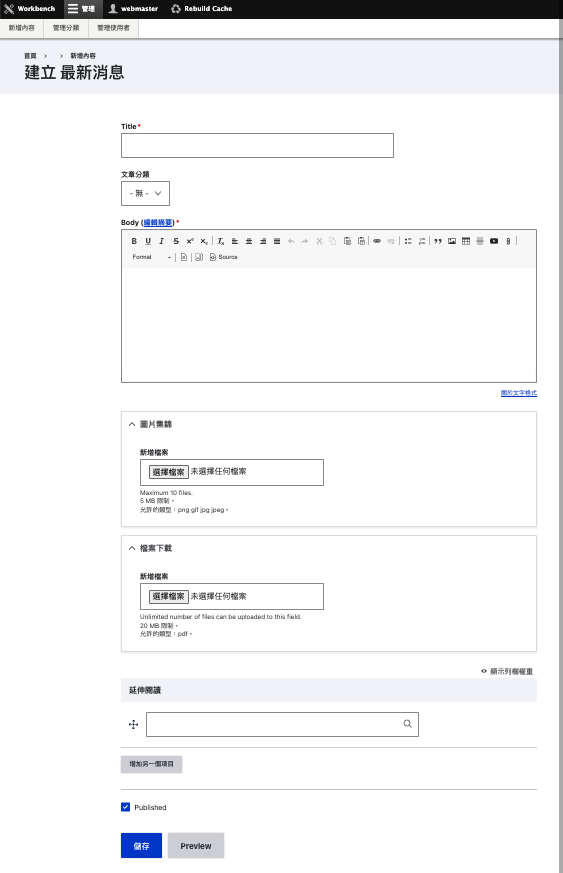
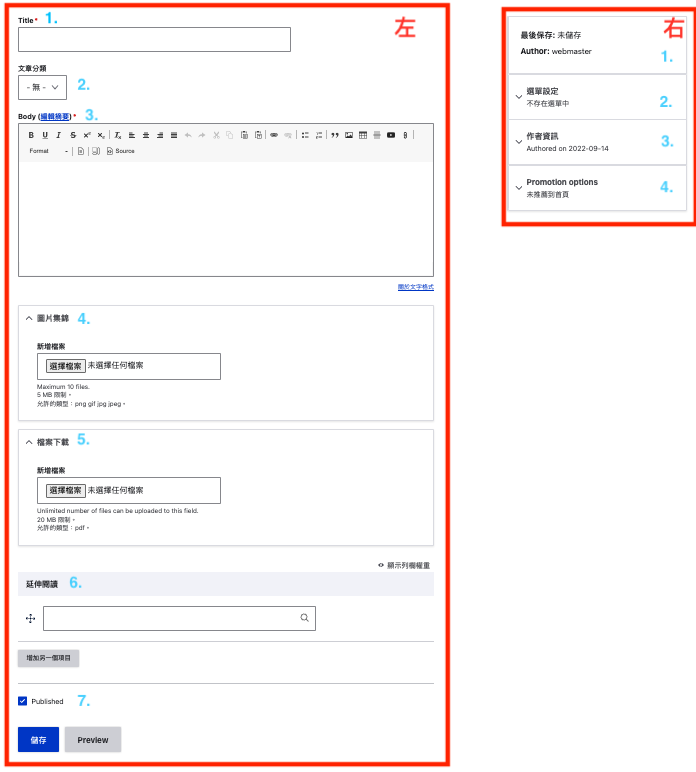
新增說明文章：影片上傳、建立表格等

Changed region(s): [[0.0, 0.0, 1.0, 1.0], [0.6945, 0.8083, 0.7549, 0.8394], [0.5737, 0.5285, 0.6039, 0.5596]]

diff --git a/docs/3-1-manage-create-content.md b/docs/3-1-manage-create-content.md
@@ -1,27 +1,67 @@
 # 新增內容
-針對分類建立新的文章，會依照使用者對於文章內容需求的不同，新增內容內的選項也會有所不同。
+**針對分類建立新的文章，會依照使用者對於文章內容需求的不同，新增內容內的選項也會有所不同。**
 #### 【新增內容路徑操作】
 1. 點選『管理』
 2. 選擇『新增內容』
-3. 選擇欲將新增的文章內容分類於哪個群組
+3. 選擇將欲新增的文章，分類於哪個群組
 
 ![](/_image/manage/content.png)
 
+#### 【新增頁面區塊欄位說明】
+新增頁面主要分為兩個區塊。[**左邊區塊**](3-1-manage-create-content?id=《左邊主要區塊》)為主要區塊，內容新增編輯、圖片上傳設定、文章發布等功能皆在此區塊內。[**右邊區塊**](3-1-manage-create-content?id=《右邊相關區塊》)為該文章其他相關設定。  
+*針對分類建立新的文章，會依照使用者對於文章內容需求的不同，新增內容內的選項也會有所不同。*  
+![](/_image/manage/content-create.png)  
 
-#### 【範例說明】
-**以最新消息為例：**  
-如果要新增最新消息分類內的文章，選擇『最新消息』，即可進入新增文章頁面，可建立最新消息的文章標題（Title）、文章分類、文章內容（Body）、圖片集錦等相關欄位資訊。  
+##### 《左邊主要區塊》
+此區塊 ＊ 符號為必填欄位
+1. title：輸入文章標題  **（必填欄位）**
+2. 文章分類：選擇在此群組下的分類項目
+3. Body：文章主要內容，可建立表格、上傳 youtube 影片、建立連結等 **（必填欄位）**
+4. 圖片集錦：最多可上傳 10 張圖片  
+  上傳圖片後，需針對該圖片填寫描述：  
+    4.1 替代文字：當圖片未加載成功時，會在網頁上顯示的文字內容 **（必填欄位）**    
+    4.2 title：圖片名稱，當滑鼠停留在圖片上時所顯示的文字提示  
+    4.3 Crop image：裁剪圖片在網頁上顯示的區塊位置  
+    4.4 拖曳符號：可以調整圖片順序  
+    4.5 移除按鈕：刪除此圖片  
+![](/_image/manage/content-create-img.png)  
 
-![](/_image/manage/content-create.png)
-  
-最後將 published 公開打勾，按下儲存，完成文章新增與發佈
+5. 檔案下載  
+    5.1 描述：可作為網頁顯示的檔案名稱  
+    5.2 拖曳符號：可以調整檔案順序  
+    5.3 移除按鈕：刪除此檔案  
+![](/_image/manage/content-create-file.png)  
+
+6. 延伸閱讀：提供瀏覽者更多相關資訊  
+    在欄位內輸入網站內文章標題關鍵字，即可搜尋到相關文章。清除欄位內容則取消該文章作為延伸閱讀   
+    拖曳符號：可以調整文章順序  
+![](/_image/manage/content-create-read.png)
+
+7. Published：文章發布，勾選 Published 則將文章發布於網頁上，如未勾選，按下儲存，則文章不發布於網頁，並保存於後台內。  
+    刪除符號：按下則刪除此篇文章  
+![](/_image/manage/content-create-published.png)
+
+------
+##### 《右邊相關區塊》
+1. 第一格欄位：顯示此篇文章的狀態，儲存時間以及作者
+2. 選單設定：此欄位設定可快速將該文章連結至主選單列內  
+    勾選『設定選單連結』，將該文章連結新增至主選單內（如下圖範例）  
+    2-1. 選單連結標題，同文章標題  
+    2-2. 描述：當滑鼠駐停在此選單連結時，會顯示的文字內容  
+    2-3. 父連結：可選擇這篇文章將位於哪個群組分類之下  
+    2-4. 權重：在主選單列內的排序，可在[『管理選單』](3-3-manage-menu)頁面修改        
+  ![](/_image/manage/content-nav.png)  
+3. 作者資訊：可修改文章發布日期  
+  ![](/_image/manage/content-author.png)  
+4. Promotion options：勾選『置頂』將文章設定於最上方  
+  ![](/_image/manage/content-promotion.png)  
+
 
 -------- 
 #### 備註
-**依照每個分類群組的需求不同，所新增的內容亦有所不同**
+*依照每個分類群組的需求不同，所新增的內容亦有所不同*
 
-**body：**
-文章內容輸入區域。詳此連結，有更詳細的輸入內容方式
+相關資訊呈現在網頁上時樣式：  
 
 **圖片集錦：**
 可上傳圖片檔案顯示於文章下方圖片導覽列中。
@@ -32,4 +72,4 @@
 **延伸閱讀：**
 可透過文章標題關鍵字搜尋，選擇延伸閱讀文章，顯示於文章頁面最下方，提供瀏覽者相關資訊。
 
-![](/_image/manage/content-creat-f.png)
+![](/_image/manage/content-create-f.png)

diff --git a/docs/_sidebar.md b/docs/_sidebar.md
@@ -3,16 +3,16 @@
     * [2.1 My Workbench](2-1-workbench-myworkbench.md)
     * [2.2 自訂區塊](2-2-workbench-customblock.md)
 * [**3. 管理**](3-manage.md)
-    * [3.1 新增內容(文章)](3-1-manage-create-content.md)
+    * [3.1 新增內容（文章）](3-1-manage-create-content.md)
         * [3.1.1 編輯內容](3-1-1-manage-edit-content.md)
         * [3.1.2 刪除內容](3-1-2-manage-delete-content.md)
         * [3.1.3 文章發布與置頂](3-1-3-manage-top-content.md)
-    * [3.2 管理分類](3-2-manage-taxonomy.md)
+    * [3.2 管理分類（次分類）](3-2-manage-taxonomy.md)
         * [3.2.1 新增分類](3-2-1-manage-create-taxonomy.md)
         * [3.2.2 編輯分類](3-2-2-manage-edit-taxonomy.md)
         * [3.2.3 刪除分類](3-2-3-manage-delete-taxonomy.md)
         * [3.2.4 排序分類](3-2-4-manage-sort-taxonomy.md)
-    * [3.3 管理選單](3-3-manage-menu.md)
+    * [3.3 管理選單（主選單）](3-3-manage-menu.md)
         * [3.3.1 新增選單](3-3-1-manage-create-menu.md)
         * [3.3.2 編輯選單](3-3-2-manage-edit-menu.md)
         * [3.3.3 刪除選單](3-3-3-manage-delete-menu.md)
@@ -21,12 +21,17 @@
         * [3.4.2 編輯使用者](3-4-2-manage-edit-user.md)
         * [3.4.3 使用者 Status 與角色](3-4-3-manage-status-user.md)
         * [3.4.4 使用者取消帳號](3-4-4-manage-disable-user.md)
+<!-- * [**CKEditor編輯器教學**](6-ckeditor.md) -->
 * [**常見問題**](7-qa.md)
-    * [●  如何登入](7-1-qa-login.md)
+    * [● 如何登入](7-1-qa-login.md)
+    * [● 如果忘記密碼/密碼被鎖](7-1-qa-login-password.md)
     * [● 如何修改文章](7-2-qa-edit-article.md)
     * [● 如何新增分類](7-3-qa-create-taxonomy.md)
     * [● 如何修改分類](7-4-qa-edit-taxonomy.md)
     * [● 如何排序分類](7-5-qa-sort-taxonomy.md)
+    * [● 如果刪除分類，原本的文章會不會不見](7-6-qa-delete-tax.md)
+    * [● 如果想要上傳影片](7-7-qa-upload-video.md)
+    * [● 如何建立表格](7-8-qa-edit-table.md)
 <!-- * **其他**
     * [Markdown](markdown.md "The is <title>")
     * [Plugins](plugins.md "Plugins")

diff --git a/docs/7-6-qa-delete-tax.md b/docs/7-6-qa-delete-tax.md
@@ -1,35 +1,17 @@
-# 刪除分類
+# 如果刪除分類，原本的文章會不會消失？
 
-#### 【刪除分類路徑操作】
-
-1. 請先點選『管理』
-2. 顯示第二層時點選『管理分類』
-3. 即可選擇您想要管理的分類群組
-
-![](/_image/manage/taxonomy.png)
-
-
-#### 【如何刪除分類？請依序以下的步驟完成】
-1. 點選分類後方向下的按紐，會顯示編輯與Delete  
   
-![](/_image/manage/taxonomy-delete.png)
-
-2. 請點選Delete，會出現二次驗證，請再點選Delete即可  
-  
-![](/_image/manage/taxonomy-delete-y.png)
-
-以上二個步驟完成後，請點選【儲存】即可
-
-
-------
-#### 【如果刪除分類，原本的文章會不會消失？】
 如果刪除分類時，沒有將原本該分類的文章移置其他分類。分類刪除後，該篇文章不會被刪除，但『文章分類』欄位會呈現空白（如下圖二）。
 而前台文章依然保留，但不會有分類（如下圖三），此時需進入該篇文章編輯頁面，重新選擇『文章分類』即可（圖四）  
+
 **圖一：原本的有分類** 刪除分類前，該分類下有文章   
 ![](/_image/qa/qa-delete-tax1.png)  
+
 **圖二：刪除分類後文章無分類** 刪除後，該篇文章依然保留，狀態不變，只有『文章分類』欄位為空白   
 ![](/_image/qa/qa-delete-tax2.png)  
+
 **圖三：刪除分類後前台樣式呈現，該文章無分類** 如果該文章屬於已發表的狀況下，在前台則會呈現如下圖   
 ![](/_image/qa/qa-delete-tax3.png)  
+
 **圖四：重新將文章分類** 可參考[編輯內容](3-1-1-manage-edit-content)方式，進入編輯頁面，重新選擇『文章分類』 
 ![](/_image/qa/qa-delete-tax4.png)

diff --git a/docs/2-1-workbench-myworkbench.md b/docs/2-1-workbench-myworkbench.md
@@ -2,12 +2,19 @@
 
 #### 【欄位操作說明】
 
-1. 點選 My Workbench，下方會顯示與網頁 navbar 相關群組，包含學會介紹、最新消息、住宅學報、研討會與論壇、學會榮譽與獎助、重要記事等六項群組資訊，以及有關該群組的最新五篇文章資訊。
-2. 點選個群組右下方 more 則進入與該群組有關的所有文章資訊
+1. 點選 My Workbench，下方會顯示固定文章分類群組，包含學會介紹、最新消息、住宅學報、研討會與論壇、學會榮譽與獎助、重要記事等六項群組資訊，以及有關該群組的最新五篇文章資訊。
+2. 點選各群組右下方 more 則進入與該群組有關的所有文章資訊
 3. 使用者也可以透過上方工具列，選擇要進入的群組內，檢視該群組所有文章資訊。
 ![](/_image/workbench/workbench.png)  
 
-4. 使用者進入到 more 頁面後，可透過上方輸入匡，搜尋相關的文章。
-5. 使用者按下文章後方編輯按鈕，可進入編輯頁面，針對該文章進行編輯。
+-----
 
+4. 使用者進入到 more 頁面後，可透過上方輸入匡，搜尋相關的文章。  
+5. 使用者按下文章後方編輯按鈕，可進入編輯頁面，針對該文章進行編輯。  
+6. 使用者可點擊文章標題，進入該文章網頁預覽頁面。  
 ![](/_image/workbench/workbench-more.png)  
+
+-----
+
+7. 使用者除了可透過上述第五點方式，亦可從文章預覽頁面，透過上方快速鍵，迅速針對該文章進行內容編輯或刪除。
+![](/_image/workbench/workbench-more-edit.png)  

diff --git a/docs/3-3-1-manage-create-menu.md b/docs/3-3-1-manage-create-menu.md
@@ -19,11 +19,12 @@
 
 **● 步驟二**
 
-新增選單連結頁面內，填寫連結標題、連結網址。連結欄位下方的『啟用』
+新增選單連結頁面內，填寫連結標題、[連結網址](3-3-1-manage-create-menu?id=【連結】欄位的輸入方式：)。連結欄位下方的『啟用』
 打勾。完成後按下【儲存】即可。
 
 ![](/_image/manage/menu-create.png)
 
+----
 #### 【快速新增選單】
 可以在新增或編輯內容時，透過右側內容狀態欄位，選擇『選單設定』，勾選『設定選單連結』，將該文章連結顯示在網頁 navbar 區塊內
 ![](/_image/manage/menu-create-url.png)
@@ -32,9 +33,9 @@
 
 #### 備註
 
-##### 【連結】
+##### 【連結】欄位的輸入方式：
 
-**內部路徑**  
+**內部路徑** 為本網站內部的頁面網址  
 可輸入內部路徑，例如 /node/add ，輸入內部路徑時，前面要加『/』符號。內部路徑可透過內容頁面網址查詢。  
 1. 進入到要新增至主選單的內容頁面。  
 2. 輸入網址列上紅框內的內容。每個文章頁面的網址皆不相同。  
@@ -42,7 +43,7 @@
   
    ![](/_image/manage/menu-url.png)
 
-**外部路徑**  
+**外部路徑** 非本網站的網址  
 也可以使用外部 URL，例如 http://example.com。
 
 **其他輸入方式**  

diff --git a/docs/7-1-qa-login-password.md b/docs/7-1-qa-login-password.md
@@ -1,0 +1,25 @@
+# 如果忘記密碼/密碼被鎖
+
+#### 【如果忘記密碼，以下提供兩種方式處理】
+**● 方式一**  
+登入畫面中，點選重設你的密碼頁籤，請輸入當初由Hellosanta創立帳號的電子郵件地址，按下Submit，系統會自動發送密碼至信箱。  
+![](/_image/workbench/fSmmjpf.png)
+
+**● 方式二**  
+請立即洽詢Hellosanta服務團隊  
+Email：service@hellosanta.com.tw  
+聯絡電話：02-2772-1225  
+上班時間為：10:00～19:00
+
+
+#### 【如果密碼輸入太多次被上鎖，以下提供兩種方式處理】
+當使用者密碼輸入【五次】錯誤密碼時，則會將該使用者帳號上鎖，需要透過以下方式進行解鎖  
+  
+**● 方式一**  
+等待 6 小時，方可再次輸入帳密
+
+**● 方式二**  
+請立即洽詢Hellosanta服務團隊  
+Email：service@hellosanta.com.tw  
+聯絡電話：02-2772-1225  
+上班時間為：10:00～19:00

diff --git a/docs/7-7-qa-upload-video.md b/docs/7-7-qa-upload-video.md
@@ -1,0 +1,18 @@
+# 如何上傳影片
+
+當沒有像上傳圖片一樣，可以上傳影片的欄位時，請透過以下方式
+
+#### 【 Youtube 連結】
+● 在編輯器上方選擇影片播放符號：  
+![](/_image/qa/ckeditor-video.png)  
+
+● 於 Video URL 欄位貼上連結，並選擇相關的播放方式與設定：  
+![](/_image/qa/upload-video.png)  
+
+
+
+#### 【 Google 雲端】
+● 將影片先存放在 Google 雲端內  
+1. 將要顯示在網頁上的文字選取反白  
+2. 點選連結符號，輸入連結即可  
+![](/_image/qa/upload-video-link.png)  

diff --git a/docs/3-manage.md b/docs/3-manage.md
@@ -7,7 +7,7 @@
 
 
 #### 【功能說明摘要】
-可透過左側選單列選項了解更詳細的內容。  
+可透過此說明手冊左側選單列選項了解更詳細的內容。  
 **新增內容：** 如果你想要 **新增文章** 頁面，主要用於新增分類群組下的文章頁面  
 **管理分類：** 如果你想要增減分類群組內的 **次分類項目** ，可修改分類群組頁面下的次分類項目  
 **管理選單：** 如果你想要在網頁上方選單列內 **增減連結頁面** ，可增減網頁上方選單列內頁面連結  

diff --git a/docs/7-8-qa-edit-table.md b/docs/7-8-qa-edit-table.md
@@ -1,0 +1,12 @@
+# 如何建立表格
+
+![](/_image/qa/ckeditor-table.png)  
+#### 【方式 1.】點選表格符號
+點選表格符號，自行建立新的表格。但此方法建立的表格不具有 Responsive(RWD) 效果  
+
+#### 【方式 2.】 選擇預設好的表格樣式符號：  
+目前已有四款預設好的表格樣式  
+![](/_image/qa/edit-table-template.png)  
+**● 表格欄位數量修改**  
+選到表格後，按右鍵，即出現該表格編輯選項。可以增減欄位   
+![](/_image/qa/edit-table-setup.png)  

diff --git a/docs/2-2-workbench-customblock.md b/docs/2-2-workbench-customblock.md
@@ -9,6 +9,8 @@
 3. 到欲修改的區塊選項後方點選編輯，則進入到相關內容編輯頁面，此範例為住宅學報 banner 區塊。
 ![](/_image/workbench/custom.png)  
 
+-----
+
 #### 【網頁前台頁面顯示】  
 在網頁上，住宅學報的 banner 區塊為網頁上方背景圖片區域。表示在住宅學報分類下的每一篇文章都會有相同的 banner 背景圖片。因此可以到使用者後台，自訂區塊內進行圖片的更新。
 ![](/_image/workbench/custom-f.png)  

diff --git a/docs/6-ckeditor.md b/docs/6-ckeditor.md
@@ -1,0 +1,1 @@
+# CKEditor 編輯器
